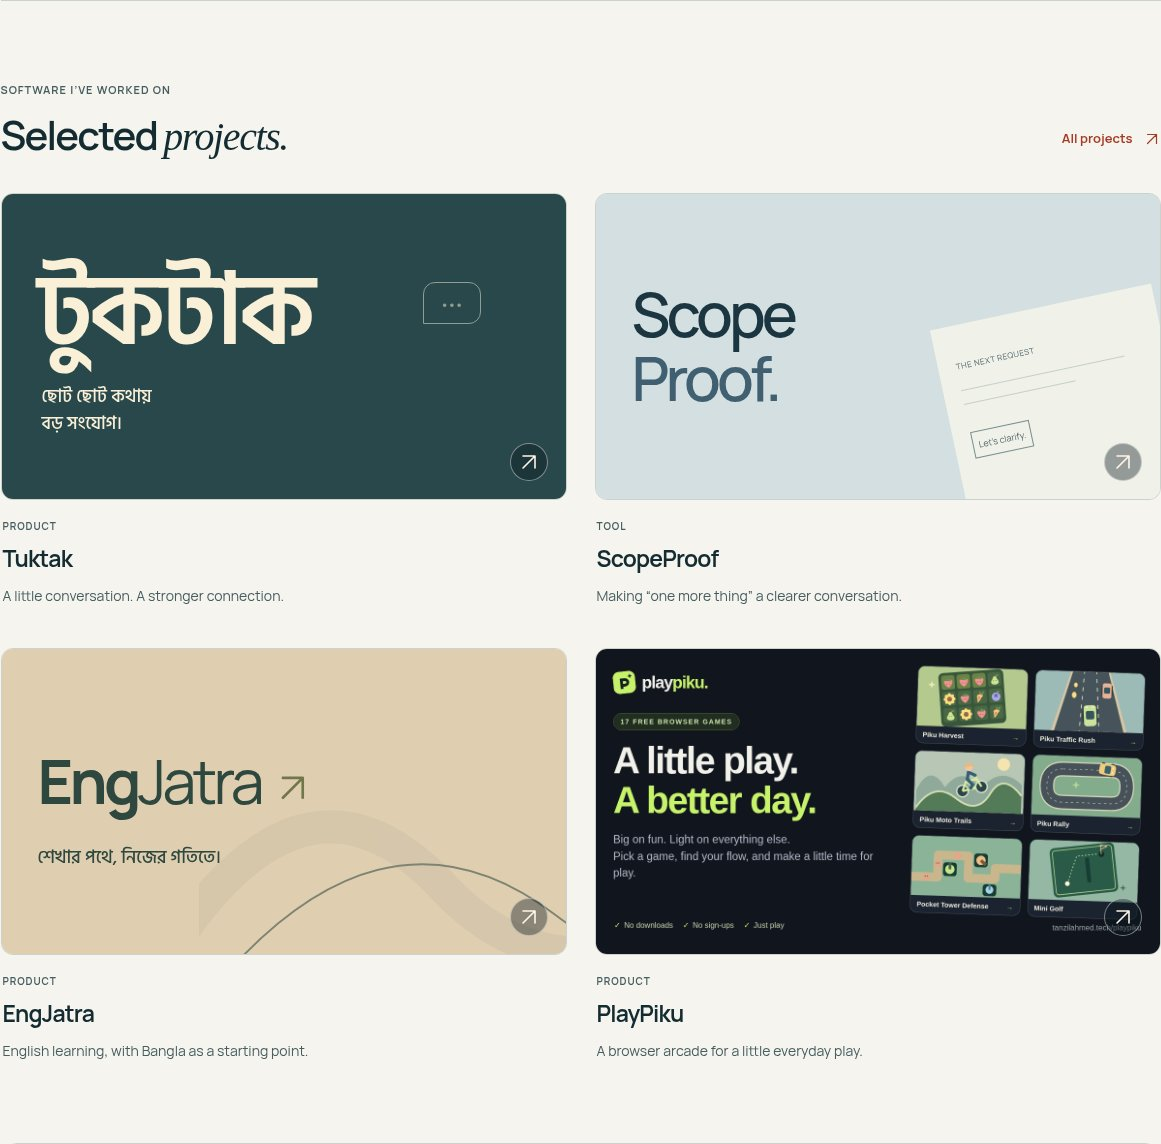
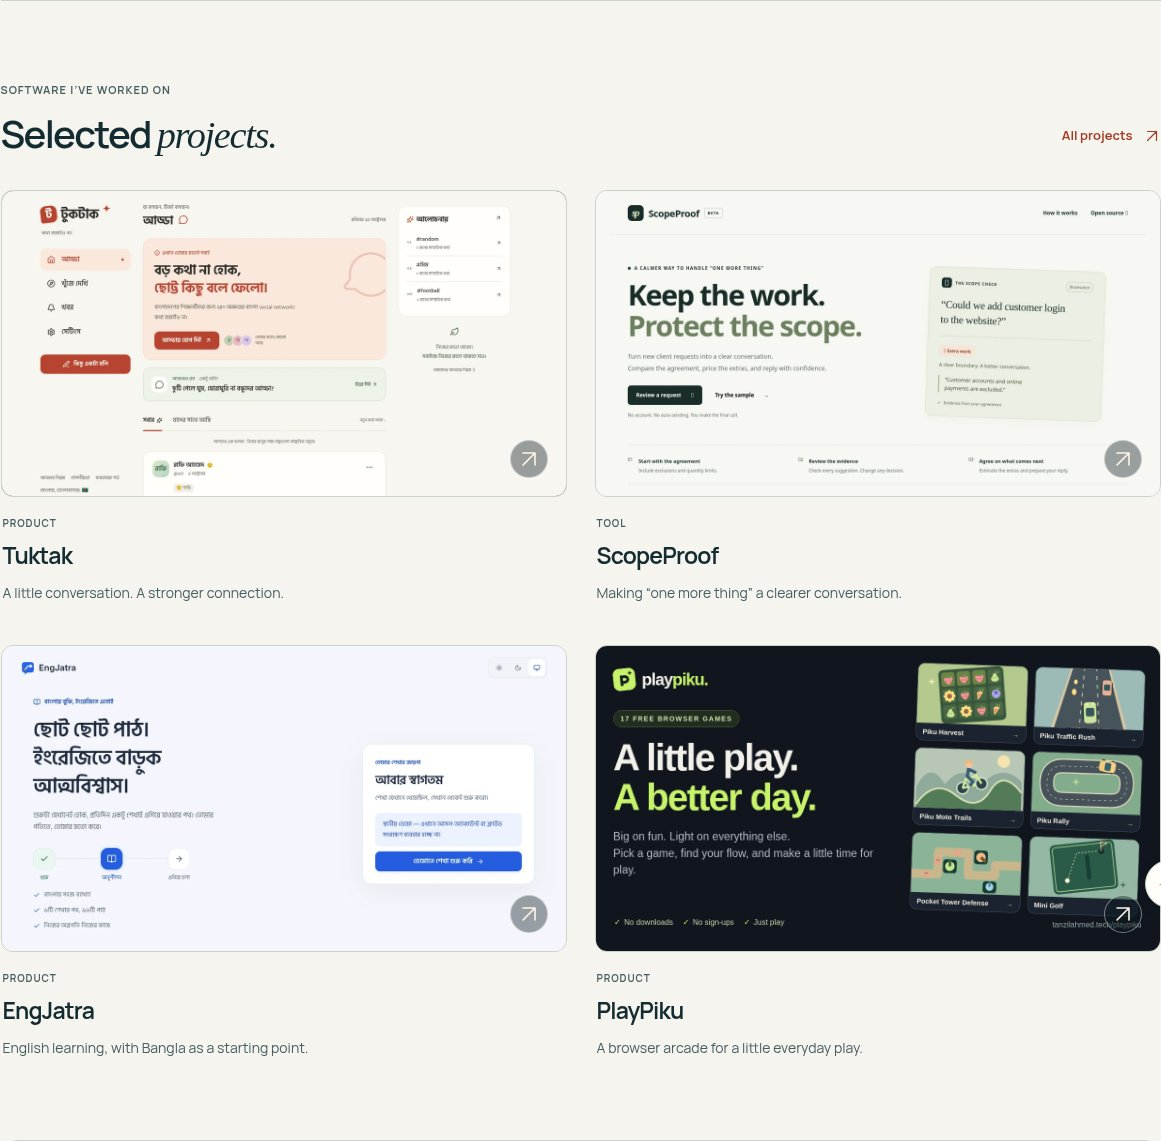
Show actual homepage previews for selected projects

diff --git a/tests/browser/portfolio.spec.ts b/tests/browser/portfolio.spec.ts
@@ -25,6 +25,9 @@ test('the selected-work journey preserves theme and shows the right priorities',
   await page.goto('/');
   await expect(page.locator('.featured-grid h3')).toHaveText(['Tuktak', 'ScopeProof', 'EngJatra', 'PlayPiku']);
   await expect(page.locator('.featured-grid .project-card')).toHaveCount(4);
+  await expect(page.locator('.featured-grid img')).toHaveCount(4);
+  await page.locator('.featured-grid img').evaluateAll(images => Promise.all(images.map(image => (image as HTMLImageElement).decode())));
+  expect(await page.locator('.featured-grid img').evaluateAll(images => images.every(image => (image as HTMLImageElement).naturalWidth >= 1200))).toBe(true);
   await expect(page.locator('.featured-grid')).not.toContainText('Choreseed');
   await expect(page.locator('.hero')).not.toContainText('Cargotab');
   await page.getByRole('button', { name: 'Switch to light theme' }).click();

diff --git a/src/styles/global.css b/src/styles/global.css
@@ -237,6 +237,8 @@ h2 { font-size: clamp(30px, 3vw, 40px); font-weight: 600; line-height: 1.2; lett
 .project-heading > p:not(.eyebrow) { color: var(--muted); font-size: 18px; margin-top: 20px; max-width: 740px; line-height: 1.8; }
 .case-cover { border: 1px solid var(--line); overflow: hidden; border-radius: var(--radius); }
 .case-cover .project-art { aspect-ratio: 3; padding: 56px 72px; }
+/* Screenshot covers keep the same complete preview framing as project cards. */
+.case-cover .project-art.art-with-image { aspect-ratio: 1.85; }
 .case-cover .tuktak-name { font-size: clamp(90px, 12vw, 160px); }
 .case-cover .tuktak-tagline { font-size: 25px; }
 .case-cover .conversation-bubble { width: 90px; height: 60px; right: 20%; }

diff --git a/docs/VERIFICATION.md b/docs/VERIFICATION.md
@@ -2,7 +2,16 @@
 
 Verified October 24, 2026 (UTC), on the production preview. Publication status is separate from local checks.
 
-## Current: PlayPiku selected project
+## Current: selected-project homepage/UI previews
+
+- Tuktak, ScopeProof and EngJatra now use actual homepage/UI preview images through their existing project content fields. The same four selected projects, descriptions, bodies, links and priorities remain. PlayPiku keeps its original source image.
+- Source evidence: Tuktak commit `6b325f09afeecb4c5626d6566a0c6a9fd6eb8526` was rendered locally in its documented no-credential sample mode; EngJatra commit `70c7d99eafb010193f6c03ce0996a22cc9814eb8` was rendered in explicit local demo mode. Both screenshots waited for fonts and capture-ready content; sample/demo labels remain. ScopeProof uses its documented actual Chromium `docs/screenshots/overview.png` (blob `832b2afebcd4a3e81aee9184a4d4f5b6dc28679b`). These are source UI previews, not fresh production-service verification.
+- The three delivery images are 1200 × 650 WebP: Tuktak 37,550 bytes, ScopeProof 40,486 bytes and EngJatra 35,460 bytes (113,496 total). Images are local and lazy-loaded, with no iframe, external screenshot service or new runtime script. Original source applications were not edited or deployed; temporary capture servers were stopped. The initial temporary installs needed a scoped writable npm cache; frozen installs then passed. No root dependency/lockfile change.
+- `npm run check`, `npm run build`, all 22 rule/content/output tests and content-authoring fixtures passed. Build emits 25 HTML pages and 24 generated share PNGs plus the retained homepage image. Fixtures were removed and the original output rebuilt before browsers.
+- `npm run test:browser`: all 92 tests passed (3.6 minutes), including both themes, all 25 routes at seven widths, unchanged four-project priorities, all four preview images decoding at their expected resolution, native/no-JavaScript navigation and existing portfolio/game interactions. The image-based detail-cover ratio preserves headers/hero content without changing generated-art covers.
+- Reviewed actual desktop/mobile selected grids and image-based detail covers in both themes. Refreshed README Home/selected-project captures and thumbnail maintenance/provenance guidance. Existing profile facts, portrait, activities/captions, original essay and other project records are unchanged. Lighthouse, live application integrations and source-project full suites were not rerun; the verification scope is the portfolio.
+
+## Earlier: PlayPiku selected project
 
 - Preserved the owner's direct README change by fast-forwarding to `97ebc4a` before editing. Home now contains exactly Tuktak, ScopeProof, EngJatra and PlayPiku; Choreseed remains published at `/work/choreseed/` and in the seven-project listing.
 - Reviewed the supplied public repository's README, site configuration and package file at `dececdb06b7750ce6f501be88161e4fa9b6d720c`. Project copy describes the browser arcade without asserting measured usage or a global leaderboard. Live/source destinations match the owner's supplied URLs. The existing PlayPiku share artwork was copied unchanged (137,139 bytes; source blob `969b45ddcfbf42405867b60de3d1e51295a75ebe`). No third-party project code was executed.
@@ -71,7 +80,7 @@ Accessible-name mismatches were corrected and the final Lighthouse report listed
 
 ## Publication
 
-The PlayPiku selected-project revision uses the checked master workflow; consult Actions for its deployment status. The preceding Game Zone revision deployed successfully in run [40080952948](https://github.com/tanzilamd/tanzilamd.github.io/actions/runs/40080952948) for commit `2147f54`. The preceding share-preview revision deployed successfully in run [40076253711](https://github.com/tanzilamd/tanzilamd.github.io/actions/runs/40076253711) for commit `38882aa`. The preceding Completionist link-only revision deployed successfully in run [40074036093](https://github.com/tanzilamd/tanzilamd.github.io/actions/runs/40074036093) for commit `6fb7d0d`. The preceding recognition/leadership/compact-footer revision deployed successfully in run [40072917442](https://github.com/tanzilamd/tanzilamd.github.io/actions/runs/40072917442) for commit `553ff1b`. The preceding Tic-tac-toe/Stack Tower revision deployed successfully in run [40070060201](https://github.com/tanzilamd/tanzilamd.github.io/actions/runs/40070060201) for commit `18ac32c`. The preceding dedicated-game/footer/corner revision deployed successfully in run [40038361854](https://github.com/tanzilamd/tanzilamd.github.io/actions/runs/40038361854) for commit `7f15397`. The preceding Play revision deployed successfully in run [40034150096](https://github.com/tanzilamd/tanzilamd.github.io/actions/runs/40034150096) for commit `9fd6242`. The preceding equal-gallery/lightweight-scroll revision deployed successfully in run [40028927236](https://github.com/tanzilamd/tanzilamd.github.io/actions/runs/40028927236) for commit `f31d518`. The preceding motion/photo-story revision deployed successfully in run [40026600339](https://github.com/tanzilamd/tanzilamd.github.io/actions/runs/40026600339) for commit `8c70ec2`.
+The homepage/UI-preview revision uses the checked master workflow; consult Actions for its deployment status. The preceding PlayPiku selected-project revision deployed successfully in run [40120439799](https://github.com/tanzilamd/tanzilamd.github.io/actions/runs/40120439799) for commit `7c146f7`. The preceding Game Zone revision deployed successfully in run [40080952948](https://github.com/tanzilamd/tanzilamd.github.io/actions/runs/40080952948) for commit `2147f54`. The preceding share-preview revision deployed successfully in run [40076253711](https://github.com/tanzilamd/tanzilamd.github.io/actions/runs/40076253711) for commit `38882aa`. The preceding Completionist link-only revision deployed successfully in run [40074036093](https://github.com/tanzilamd/tanzilamd.github.io/actions/runs/40074036093) for commit `6fb7d0d`. The preceding recognition/leadership/compact-footer revision deployed successfully in run [40072917442](https://github.com/tanzilamd/tanzilamd.github.io/actions/runs/40072917442) for commit `553ff1b`. The preceding Tic-tac-toe/Stack Tower revision deployed successfully in run [40070060201](https://github.com/tanzilamd/tanzilamd.github.io/actions/runs/40070060201) for commit `18ac32c`. The preceding dedicated-game/footer/corner revision deployed successfully in run [40038361854](https://github.com/tanzilamd/tanzilamd.github.io/actions/runs/40038361854) for commit `7f15397`. The preceding Play revision deployed successfully in run [40034150096](https://github.com/tanzilamd/tanzilamd.github.io/actions/runs/40034150096) for commit `9fd6242`. The preceding equal-gallery/lightweight-scroll revision deployed successfully in run [40028927236](https://github.com/tanzilamd/tanzilamd.github.io/actions/runs/40028927236) for commit `f31d518`. The preceding motion/photo-story revision deployed successfully in run [40026600339](https://github.com/tanzilamd/tanzilamd.github.io/actions/runs/40026600339) for commit `8c70ec2`.
 
 The owner’s activity-content update deployed successfully in run [40018102876](https://github.com/tanzilamd/tanzilamd.github.io/actions/runs/40018102876) for commit `6e82447`. The October 24 image optimization deployed successfully in run [40021022175](https://github.com/tanzilamd/tanzilamd.github.io/actions/runs/40021022175) for commit `85b4109`.
 

diff --git a/docs/UI-GUIDE.md b/docs/UI-GUIDE.md
@@ -100,3 +100,8 @@ Also check the following manually when relevant:
 Activity thumbnails crop to a consistent 3:2 frame; the viewer contains the whole image. Current galleries use owner-supplied WebP photographs, resized to at most 1600px wide; keep future uploads similarly optimized. Photos span the activity section below its title/description. All multi-photo galleries share equal-width, top-aligned 3:2 frames in two columns, including galleries with an odd number of photos. Captions sit below each frame; mobile presents every photo sequentially in one column. One photo has a restrained maximum width, and an empty gallery renders nothing. Array order controls photo order, with no separate layout setting to maintain. Photos have no separate gallery heading, thumbnail count or page-wide notice. Keep the small Demo label while generated placeholders remain; the viewer retains its photo counter. Replace the source, alt text and captions and set `demo: false` only for real event photos. The Home preview links to its activity section; it does not open a separate Home dialog. Native `<dialog>` makes the background inert; explicit Tab/Shift+Tab wrapping keeps keyboard focus on the viewer controls, and closing restores the triggering link. Arrow keys and previous/next controls browse the published photos; plain image links remain functional without JavaScript. Check the single-photo/empty-gallery states when changing gallery data.
 
 Automated accessibility results do not establish complete WCAG conformance. Record actual checks in `docs/VERIFICATION.md`, and keep historical Lighthouse scores explicitly separate from current results.
+
+
+## Project preview images
+
+The four selected projects use local preview images through the existing `coverImage`/`coverAlt` fields. Tuktak and EngJatra are actual Chromium captures of their unmodified source in explicit local demo mode; ScopeProof uses its documented homepage capture. Keep sample/demo labels and provenance accurate. Optimize snapshots without inventing UI. Cards and image-based detail covers share the 1.85 aspect ratio so headers and hero copy remain visible; the original generated-art covers retain their earlier responsive proportions.

diff --git a/docs/CONTENT-GUIDE.md b/docs/CONTENT-GUIDE.md
@@ -218,3 +218,10 @@ Game rules বা daily seed-এর অর্থ বদলালে `RULES_VERSI
 ### Home-এর চারটি selected project
 
 বর্তমানে Tuktak, ScopeProof, EngJatra ও PlayPiku দেখায়। PlayPiku-এর তথ্য/links/image বদলাতে শুধু `src/content/projects/playpiku.md` edit করুন। `featured: true` এবং `order: 4` এটিকে চতুর্থ card রাখে। Choreseed-এর `featured: false`; All projects ও পুরোনো `/work/choreseed/` link সচল আছে। Home সর্বোচ্চ চারটি published featured item দেখায়।
+
+
+### Project thumbnail / homepage preview বদলানো
+
+চারটি selected project-এর preview এখন image file থেকে আসে। Tuktak, ScopeProof ও EngJatra-এর optimized preview আছে `public/media/tuktak-home.webp`, `scopeproof-home.webp`, `engjatra-home.webp`-এ। PlayPiku নিজের existing artwork ব্যবহার করে।
+
+নিজের নতুন homepage screenshot upload করে সংশ্লিষ্ট `src/content/projects/<name>.md`-এর `coverImage` path ও `coverAlt` description বদলান। Home, All projects ও detail cover একই source থেকে update হবে। সম্ভব হলে 1200 × 650px-এর কাছাকাছি image দিন; font ও page পুরো load হওয়ার পর capture করুন। Preview-তে demo/sample data থাকলে সেটার label রাখুন। Live site-এর screenshot না হলে alt/description-এ local preview বলুন। `coverImage`/`coverAlt` সরালে আগের `cover` artwork আবার দেখাবে।

diff --git a/README.md b/README.md
@@ -39,7 +39,7 @@ Draft content is excluded from generated pages, RSS and sitemap. A public Git re
 
 ### Choose Home highlights
 
-- Projects: first four published `featured: true` entries, sorted by `order`. Current selection: Tuktak, ScopeProof, EngJatra and PlayPiku. Choreseed remains on All projects with its existing detail URL; Cargotab/Tanzilbot stay under Earlier work.
+- Projects: first four published `featured: true` entries, sorted by `order`. Current selection: Tuktak, ScopeProof, EngJatra and PlayPiku. Tuktak/ScopeProof/EngJatra use actual homepage/UI previews; PlayPiku keeps its own project artwork. Choreseed remains on All projects with its existing detail URL; Cargotab/Tanzilbot stay under Earlier work.
 - Contributions: up to three featured entries. A `spotlight: true` entry also receives a detailed Open source feature; Tabbycat’s published website work links to its source and upstream integration.
 - Recognition: up to four featured milestones in a two-column desktop grid. All awards and work experience appear on About; Hacktoberfest milestones also appear under Open source. Optional local badge artwork and proof-image links come from the same milestone file. Current highlights include YCPC Grand Finale 2k25 (3rd place) and Hacktoberfest 2026 Completionist. The Completionist entry uses the same text-only layout as other recognition, with a single **View badge** proof link.
 - Activities: featured entries appear on Home; all published activities appear under Activities. Edit one activity’s summary once to update both views.

diff --git a/docs/RELEASE-NOTES.md b/docs/RELEASE-NOTES.md
@@ -4,6 +4,12 @@
 
 Responsive dark/light portfolio; new owner-supplied portrait; four selected projects and two earlier-work stories; eleven selected open-source records; About, Activities, Writing, Contact and 404; content templates; sitemap/metadata; self-hosted fonts; optimized images; GitHub Pages workflow; build, authoring, privacy/link and browser/accessibility checks.
 
+## October 24 selected-project homepage previews
+
+- Replaced the Tuktak, ScopeProof and EngJatra generated thumbnail artwork with optimized actual UI/homepage previews; kept PlayPiku’s own preview and the same four selected projects.
+- Reused each project’s image fields across Home, All projects and its detail page. Image-based detail covers now preserve the same complete framing as the cards; other generated artwork keeps its previous layout.
+- Retained sample/demo labels and source provenance, updated the maintenance guide and README captures, and extended the existing project journey to check all four images decode.
+
 ## October 24 PlayPiku selected project
 
 - Replaced Choreseed in the four Home highlights with PlayPiku, using one project record, the supplied live/source links and its existing project artwork. Added the PlayPiku detail page and automatic share preview.

diff --git a/docs/CREDITS.md b/docs/CREDITS.md
@@ -12,3 +12,6 @@
 - PlayPiku cover: the project’s existing public share artwork from `tanzilamd/playpiku`, copied unchanged for its portfolio entry.
 - Built with Astro and TypeScript. Development of this portfolio was assisted by OpenAI Codex under Tanzil Ahmed’s direction.
 - Tabbycat and other external projects retain their upstream authorship and licenses; original project/contribution links identify their sources.
+
+- Tuktak and EngJatra homepage/UI previews: actual local Chromium captures of their public source, with the applications’ demo/sample labels retained. No production accounts or personal records were captured.
+- ScopeProof homepage preview: its existing `docs/screenshots/overview.png` actual local browser capture, cropped to the homepage introduction and optimized for delivery.

diff --git a/src/content/projects/scopeproof.md b/src/content/projects/scopeproof.md
@@ -28,7 +28,9 @@
       "url": "https://dev.to/tanzil_ahmed_e6a826eee8c4/scopeproof-an-evidence-first-answer-to-one-more-thing-3odi"
     }
   ],
-  "note": "AI suggestions support a human decision. They are not legal advice or an automatic invoice."
+  "note": "AI suggestions support a human decision. They are not legal advice or an automatic invoice.",
+  "coverImage": "/media/scopeproof-home.webp",
+  "coverAlt": "ScopeProof’s homepage, with its scope-review introduction and example illustration."
 }
 ---
 

diff --git a/src/content/projects/tuktak.md b/src/content/projects/tuktak.md
@@ -23,7 +23,9 @@
       "label": "Source on GitHub",
       "url": "https://github.com/tanzilamd/tuktak"
     }
-  ]
+  ],
+  "coverImage": "/media/tuktak-home.webp",
+  "coverAlt": "Local preview of Tuktak’s guest homepage, with its labelled sample feed."
 }
 ---
 

diff --git a/src/content/projects/engjatra.md b/src/content/projects/engjatra.md
@@ -19,7 +19,9 @@
       "label": "Explore the source",
       "url": "https://github.com/tanzilamd/EngJatra"
     }
-  ]
+  ],
+  "coverImage": "/media/engjatra-home.webp",
+  "coverAlt": "Local demo preview of EngJatra’s Bangla welcome page."
 }
 ---
 
